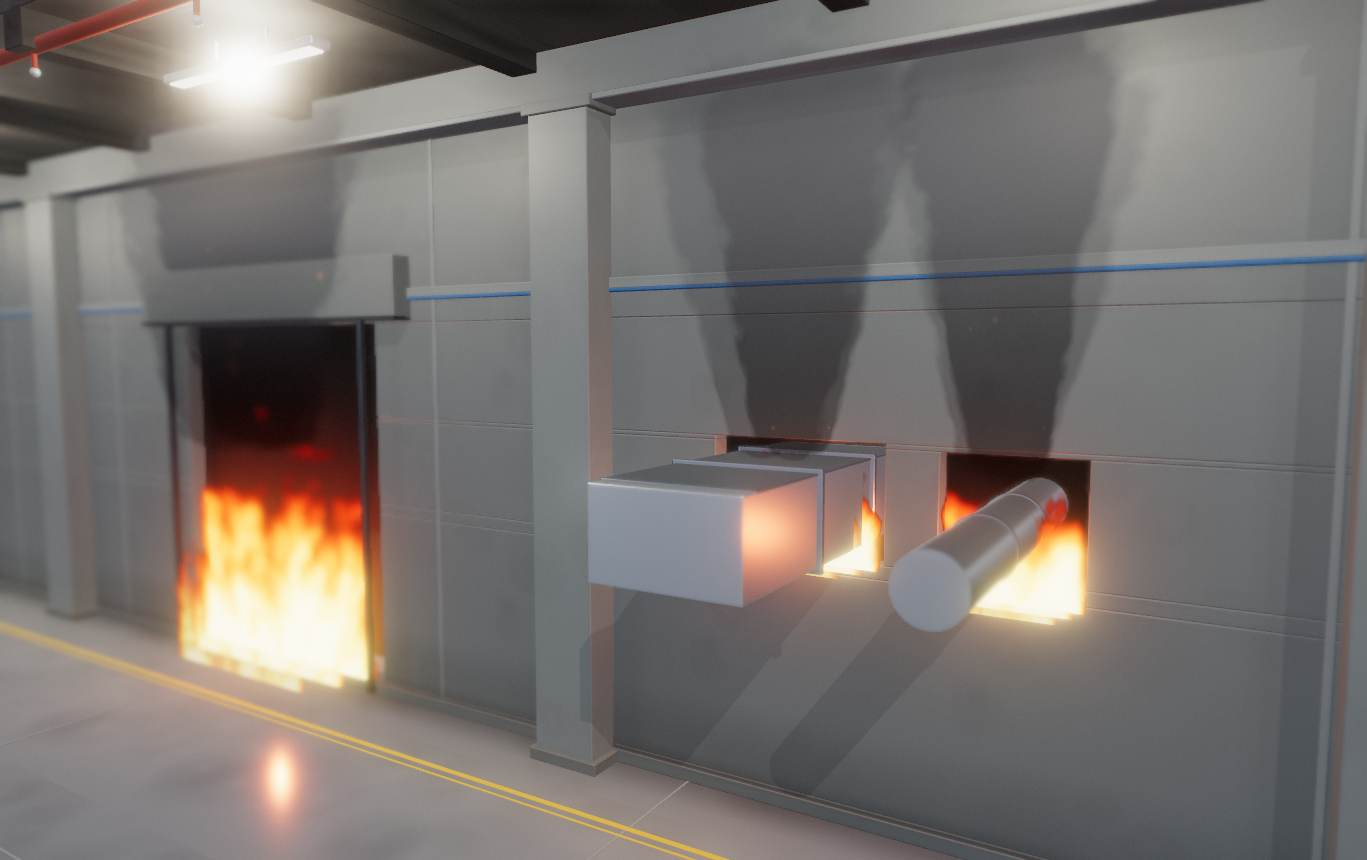
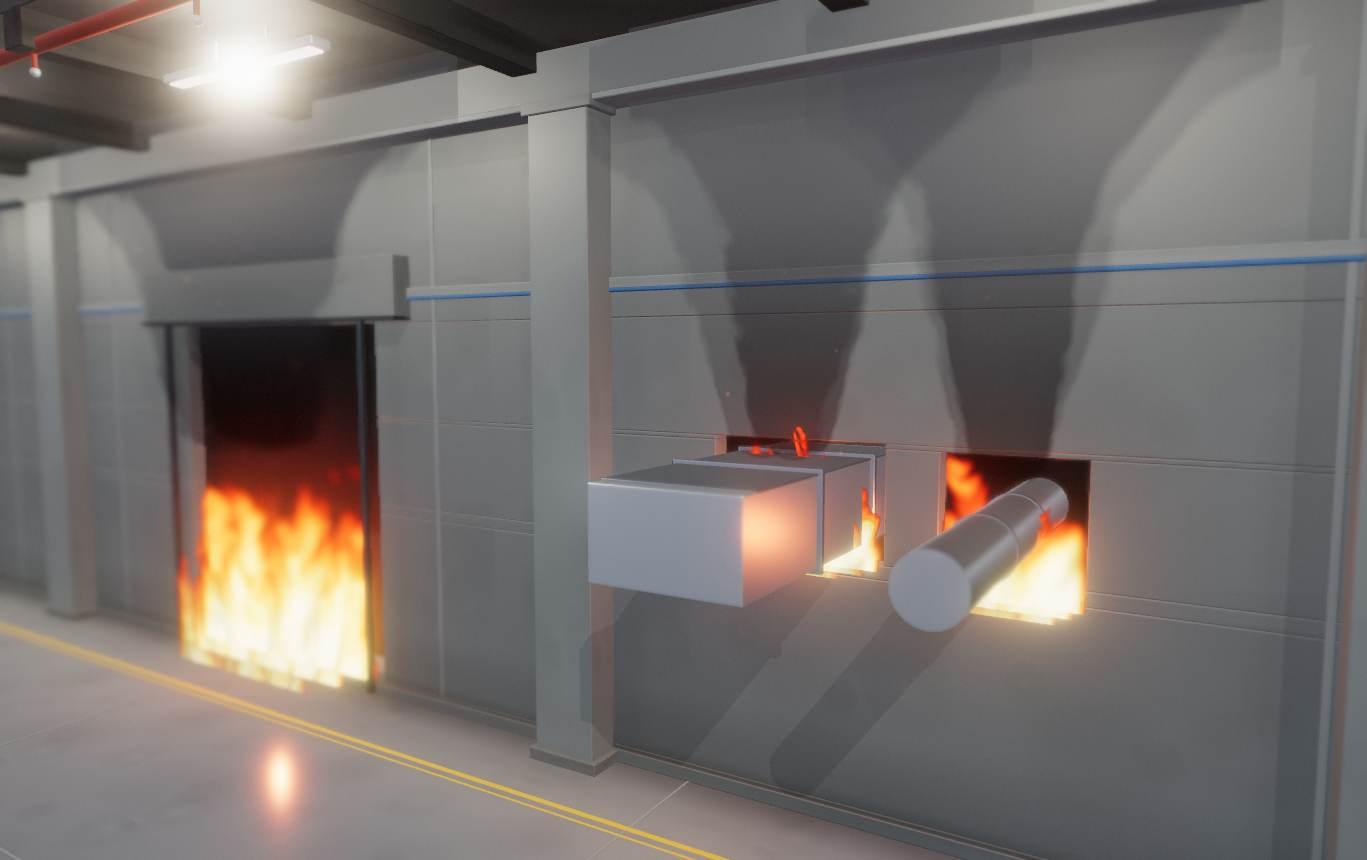
불꽃·연기 품질 — 회전장 워프 · 조각으로 끊어짐 · 연기 천장 확산
경쟁사(마가켐) 히어로 영상을 기준으로 삼아 가장 차이가 큰 불·연기부터.

· 회전장(curl noise) 워프 — 스칼라 노이즈의 기울기를 90° 돌려 발산 0인 회전장을 만들고
  그걸로 좌표를 민다. 노이즈 두 장으로 그냥 미는 도메인 워프는 결이 옆으로 흔들리기만 하고
  혀가 감기지 않는다. 위로 갈수록 크게 휘게 해서 뿌리는 안정적이고 끝만 나풀거리게.
· 위쪽에서 조각으로 끊어짐 — 난류장을 높은 문턱으로 자르면 약한 부분이 먼저 끊겨
  남은 곳이 섬처럼 분리된다. 경계 폭도 같이 좁혀 조각 윤곽을 또렷하게.
· 부력 — 위로 흐르는 속도를 높이에 비례해 키운다. 등속이면 결이 통째로 평행 이동해
  '스크롤되는 커튼'으로 보인다.
· 속이 빈 심부 — 불꽃 안쪽은 아직 안 탄 자리라 바깥보다 어둡다. 없으면 균일하게
  빛나는 주황 젤리가 된다.
· 연기 천장 제트 — 천장에 부딪히면 못 올라가고 옆으로 깔려 층을 이룬다. 예전엔 0.62 부터
  흩어져 사라져서 굴뚝처럼 빠져나갔다. 천장 근처에서 결을 세로로 눌러 가로 층처럼 보이게.

워프용 노이즈는 저주파만 필요하므로 2옥타브(fbm2)로 따로 뽑아 비용을 줄였다.
0초 프레임이 바뀌었으므로 포스터 4장 재생성.

diff --git a/company-site/assets/js/hero3d.js b/company-site/assets/js/hero3d.js
@@ -835,6 +835,8 @@ export async function initHero3D(canvas, host) {
     uniform float uBoost;   // 불꽃이 뻗는 높이
     uniform vec2  uDetail;  // 노이즈 칸 수 (개구부 크기에 맞춰 결 크기를 일정하게)
     uniform vec2  uEdge;    // 좌우 감쇠 폭
+    uniform float uCurl;    // 혀가 휘말리는 정도 (도메인 워프)
+    uniform float uBreak;   // 위쪽에서 조각으로 끊어지는 정도
 
     float hash(vec2 p) {
       p = fract(p * vec2(233.34, 851.73));
@@ -852,14 +854,32 @@ export async function initHero3D(canvas, host) {
       for (int i = 0; i < 4; i++) { v += a * vnoise(p); p = p * 2.04 + vec2(17.3, 9.1); a *= 0.5; }
       return v;
     }
+    // 워프용은 저주파만 있으면 되므로 2옥타브로 싸게 — 불 셰이더는 화면을 크게 덮는다
+    float fbm2(vec2 p) {
+      return 0.62 * vnoise(p) + 0.31 * vnoise(p * 2.04 + vec2(17.3, 9.1));
+    }
 
     void main() {
       vec2 uv = vUv;
       float h = uv.y;                       // 0 = 불의 뿌리, 1 = 꼭대기
 
-      // 위로 갈수록 옆으로 퍼지는 좌표 왜곡 — 불꽃이 원뿔처럼 벌어진다
+      // 위로 갈수록 옆으로 퍼지는 좌표 왜곡 — 불꽃이 원뿔처럼 벌어진다.
+      // ⚠ 위로 흐르는 속도를 높이에 따라 키운다(부력). 등속으로 흘리면 결이 통째로
+      //    평행 이동해서 '스크롤되는 무늬'로 보인다 — 불이 아니라 커튼이 된다.
       vec2 q = vec2((uv.x - 0.5) * uDetail.x / (0.55 + h * 0.95),
-                    h * uDetail.y - uTime * uSpeed);
+                    h * uDetail.y - uTime * uSpeed * (1.0 + h * 0.55));
+
+      // ── 회전장(curl noise) 워프 — 이게 '혀가 말려 올라가는' 형상을 만드는 핵심이다.
+      //    ⚠ 노이즈 두 장으로 그냥 밀면(도메인 워프) 결이 **옆으로 흔들리기만** 한다.
+      //       실제 불꽃은 소용돌이를 타고 감기므로 **회전하는 벡터장**이어야 한다.
+      //       스칼라 노이즈의 기울기를 90° 돌리면 발산이 0인 회전장이 된다.
+      vec2 wp = q * 0.62 + vec2(uSeed * 0.7, uTime * 0.33);
+      const float E = 0.14;
+      float na = fbm2(wp);
+      vec2 grad = vec2(fbm2(wp + vec2(E, 0.0)) - na, fbm2(wp + vec2(0.0, E)) - na) / E;
+      // 위로 갈수록 크게 휘어야 뿌리는 안정적이고 끝만 나풀거린다
+      q += vec2(grad.y, -grad.x) * uCurl * (0.20 + h * 1.5);
+
       float n1 = fbm(q + vec2(uSeed, 0.0));
       float n2 = fbm(q * 2.35 + vec2(uSeed * 1.7, -uTime * uSpeed * 1.8));
       float turb = n1 * 0.74 + n2 * 0.40;
@@ -876,12 +896,25 @@ export async function initHero3D(canvas, host) {
       col = mix(col, vec3(1.00, 0.52, 0.07), smoothstep(0.24, 0.52, f));
       col = mix(col, vec3(1.00, 0.82, 0.32), smoothstep(0.52, 0.80, f));
       col = mix(col, vec3(1.00, 0.91, 0.60), smoothstep(0.90, 1.00, f));
+
+      // ── 속이 빈 심부. 불꽃 안쪽은 연료가 아직 안 탄 자리라 **바깥보다 어둡다**.
+      //    이걸 안 넣으면 균일하게 빛나는 '주황 젤리'가 된다.
+      float core = fbm(q * 1.45 + vec2(11.7, uTime * 0.5));
+      col *= 1.0 - 0.42 * smoothstep(0.42, 0.86, core) * smoothstep(0.30, 0.62, f) * (1.0 - h * 0.55);
+
       // ⚠ 위 색은 눈으로 고른 sRGB 값이다. 이제 HDR 선형 버퍼에 그리므로 선형으로 되돌린다.
       //    그 다음 온도에 따라 1을 훌쩍 넘게 밀어 올린다 — 그래야 심부가 하얗게 타고 블룸이 걸린다.
       //    (이 단계가 없으면 아무리 노랗게 칠해도 '주황색 판'으로만 보인다)
       col = pow(col, vec3(2.2)) * mix(1.35, 4.6, smoothstep(0.10, 0.98, f));
 
-      float a = smoothstep(0.012, 0.19, f) * uAlpha * uOn;
+      // ── 위쪽에서 조각으로 끊어지게.
+      //    실제 불은 끝이 매끄럽게 옅어지며 사라지지 않고 **덩어리가 떨어져 나가** 따로 탄다.
+      //    난류장을 **높은 문턱으로 자르면** 약한 부분이 먼저 끊겨 남은 곳이 섬처럼 분리된다.
+      //    경계 폭까지 같이 좁혀야 조각의 윤곽이 또렷해진다.
+      float bh = clamp(h * uBreak, 0.0, 1.0);
+      float thr  = mix(0.012, 0.20, bh);
+      float band = mix(0.178, 0.05, bh);
+      float a = smoothstep(thr, thr + band, f) * uAlpha * uOn;
       a *= smoothstep(uCut + 0.05, uCut - 0.03, h);   // 셔터 하단 아래로만 남는다
       if (a < 0.004) discard;
       gl_FragColor = vec4(col, a);
@@ -907,6 +940,9 @@ export async function initHero3D(canvas, host) {
           uBoost: { value: cfg.boost * (1 - i * 0.08) },
           uDetail: { value: new THREE.Vector2(w * 0.85, hh * 0.5) },
           uEdge: { value: new THREE.Vector2(0.16, 0.16) },
+          // 앞겹일수록 크게 휘고 잘 끊어진다 — 뒤겹은 화염 덩어리의 몸통이라 안정적이어야 한다
+          uCurl: { value: (cfg.curl === undefined ? 0.85 : cfg.curl) * (1 + i * 0.35) },
+          uBreak: { value: (cfg.brk === undefined ? 1.0 : cfg.brk) * (1 + i * 0.25) },
         },
       });
       const m = new THREE.Mesh(new THREE.PlaneGeometry(w, hh, 1, 1), mat);
@@ -939,6 +975,8 @@ export async function initHero3D(canvas, host) {
     varying vec2 vUv;
     uniform float uTime, uOn, uAlpha, uCut, uSeed, uSpeed, uDensity;
     uniform vec2 uDetail, uEdge;
+    uniform float uCeil;        // 천장에 닿기 시작하는 높이(uv.y)
+    uniform float uCeilSpread;  // 천장에서 옆으로 퍼지는 폭
 
     float hash(vec2 p) {
       p = fract(p * vec2(233.34, 851.73));
@@ -961,10 +999,17 @@ export async function initHero3D(canvas, host) {
       vec2 uv = vUv;
       float h = uv.y;                                  // 0 = 불 바로 위, 1 = 천장 쪽
 
+      // ── 천장 제트(ceiling jet).
+      //    실제 화재 연기는 천장에 부딪히면 더 못 올라가고 **옆으로 깔려 층을 이룬다.**
+      //    이게 없으면 굴뚝처럼 위로만 빠져나가 '연기가 어디로 갔나' 싶은 그림이 된다.
+      float cj = smoothstep(uCeil - 0.18, 1.0, h);
+
       // 위로 갈수록 옆으로 크게 퍼진다(불과 반대로 벌어지는 형상)
       float spread = 0.42 + h * 1.85;
       vec2 q = vec2((uv.x - 0.5) * uDetail.x / spread,
                     h * uDetail.y - uTime * uSpeed);
+      // 천장 근처에서는 결을 세로로 눌러 **가로로 늘어난 층**처럼 보이게 한다
+      q.y = mix(q.y, q.y * 0.32, cj);
       float n1 = fbm(q + vec2(uSeed, 0.0));
       float n2 = fbm(q * 2.15 + vec2(uSeed * 2.3, -uTime * uSpeed * 0.65));
       float d = n1 * 0.78 + n2 * 0.42;
@@ -973,13 +1018,15 @@ export async function initHero3D(canvas, host) {
       // (가로 전체를 채우면 검은 사각 덩어리로 보인다)
       float cx = 0.5 + sin(uTime * 0.33 + uSeed) * 0.06 * h
                      + sin(uTime * 0.19 + uSeed * 2.1) * 0.04 * h;
-      float hw = uEdge.x + h * uEdge.y;   // half 는 GLSL 예약어라 쓸 수 없다
+      // half 는 GLSL 예약어라 쓸 수 없다. 천장에 닿으면 폭이 급격히 벌어진다.
+      float hw = uEdge.x + h * uEdge.y + cj * uCeilSpread;
       float dx = abs(uv.x - cx) / max(0.02, hw);
       float plume = 1.0 - smoothstep(0.12, 1.0, dx);
-      // 올라오면서 짙어졌다가 천장으로 갈수록 흩어진다
-      float rise = smoothstep(0.0, 0.07, h) * (1.0 - smoothstep(0.62, 1.0, h));
+      // 올라오면서 짙어진다. ⚠ 예전엔 0.62 부터 흩어져 없어졌는데, 그러면 천장에 쌓이질 않는다.
+      //    천장 바로 아래까지 살려두고 맨 끝(슬래브에 묻히는 부분)만 잘라낸다.
+      float rise = smoothstep(0.0, 0.07, h) * (1.0 - smoothstep(0.88, 1.03, h));
 
-      float m = d * uDensity * plume * rise;
+      float m = d * uDensity * plume * rise * mix(1.0, 1.32, cj);
       float a = smoothstep(0.3, 0.66, m) * uAlpha * uOn;
       a *= smoothstep(uCut + 0.06, uCut - 0.03, h);
       if (a < 0.004) discard;
@@ -1007,6 +1054,8 @@ export async function initHero3D(canvas, host) {
           uDensity: { value: cfg.density },
           uDetail: { value: new THREE.Vector2(w * 1.15, hh * 0.78) },
           uEdge: { value: new THREE.Vector2(cfg.narrow, cfg.flare) },
+          uCeil: { value: cfg.ceil === undefined ? 0.70 : cfg.ceil },
+          uCeilSpread: { value: cfg.ceilSpread === undefined ? 0.55 : cfg.ceilSpread },
         },
       });
       const m = new THREE.Mesh(new THREE.PlaneGeometry(w, hh, 1, 1), mat);

diff --git a/company-site/index.html b/company-site/index.html
@@ -21,15 +21,15 @@
 
     <link rel="icon" type="image/png" href="assets/images/doenc_mark.png">
     <!-- 히어로 첫 화면 — 화면 비율 단계별로 한 장만 받는다 (경계는 style.css / hero3d.js resize() 와 동일) -->
-    <link rel="preload" as="image" href="assets/images/hero-poster-w.jpg?v=20260805a" media="(min-aspect-ratio: 8/5)" fetchpriority="high">
-    <link rel="preload" as="image" href="assets/images/hero-poster-m.jpg?v=20260805a" media="(min-aspect-ratio: 6/5) and (max-aspect-ratio: 8/5)" fetchpriority="high">
-    <link rel="preload" as="image" href="assets/images/hero-poster-n.jpg?v=20260805a" media="(min-aspect-ratio: 4/5) and (max-aspect-ratio: 6/5)" fetchpriority="high">
-    <link rel="preload" as="image" href="assets/images/hero-poster-p.jpg?v=20260805a" media="(max-aspect-ratio: 4/5)" fetchpriority="high">
+    <link rel="preload" as="image" href="assets/images/hero-poster-w.jpg?v=20260805b" media="(min-aspect-ratio: 8/5)" fetchpriority="high">
+    <link rel="preload" as="image" href="assets/images/hero-poster-m.jpg?v=20260805b" media="(min-aspect-ratio: 6/5) and (max-aspect-ratio: 8/5)" fetchpriority="high">
+    <link rel="preload" as="image" href="assets/images/hero-poster-n.jpg?v=20260805b" media="(min-aspect-ratio: 4/5) and (max-aspect-ratio: 6/5)" fetchpriority="high">
+    <link rel="preload" as="image" href="assets/images/hero-poster-p.jpg?v=20260805b" media="(max-aspect-ratio: 4/5)" fetchpriority="high">
 
     <!-- 3D 모듈을 미리 받아둔다. 없으면 main.js → hero3d.js → three.module → three.core 로
          **네 번 순차 왕복**하느라 750KB 를 다 받을 때까지 포스터가 계속 떠 있는다.
          ⚠ href 는 실제 import 주소와 **글자 그대로 같아야** 캐시가 재사용된다(쿼리 포함). -->
-    <link rel="modulepreload" href="assets/js/hero3d.js?v=20260805a">
+    <link rel="modulepreload" href="assets/js/hero3d.js?v=20260805b">
     <link rel="modulepreload" href="assets/js/vendor/three.module.min.js">
     <link rel="modulepreload" href="assets/js/vendor/three.core.min.js">
 
@@ -76,7 +76,7 @@
     <link rel="stylesheet" href="https://cdn.jsdelivr.net/gh/orioncactus/pretendard@v1.3.9/dist/web/variable/pretendardvariable-dynamic-subset.min.css"
           media="print" onload="this.media='all'">
     <noscript><link rel="stylesheet" href="https://cdn.jsdelivr.net/gh/orioncactus/pretendard@v1.3.9/dist/web/variable/pretendardvariable-dynamic-subset.min.css"></noscript>
-    <link rel="stylesheet" href="assets/css/style.css?v=20260805a">
+    <link rel="stylesheet" href="assets/css/style.css?v=20260805b">
     <noscript><style>.reveal{opacity:1!important;transform:none!important}</style></noscript>
 </head>
 <body id="top">
@@ -178,7 +178,7 @@
         <section class="hero" id="home">
             <!-- ▼ 히어로 미디어 슬롯
                  실사 영상/사진을 받으면 아래 주석 한 줄만 살리면 도면 그래픽이 자동 교체됩니다.
-                 <video autoplay muted loop playsinline poster="assets/images/hero-poster-w.jpg?v=20260805a">
+                 <video autoplay muted loop playsinline poster="assets/images/hero-poster-w.jpg?v=20260805b">
                      <source src="assets/images/hero.mp4" type="video/mp4"></video>
                  또는  <img src="assets/images/hero.jpg" alt="">                        -->
             <div class="hero-media" id="heroMedia" aria-hidden="true">
@@ -917,14 +917,14 @@
         <a class="to-top" href="#top" aria-label="맨 위로">↑</a>
     </footer>
 
-    <script src="assets/js/main.js?v=20260805a"></script>
+    <script src="assets/js/main.js?v=20260805b"></script>
     <script type="module">
       // 히어로 3D는 첫 화면이 그려진 뒤에 불러온다 (본문 표시를 늦추지 않도록)
       var canvas = document.getElementById("hero3d");
       var host = document.getElementById("heroMedia");
       var gl = canvas && canvas.getContext && (canvas.getContext("webgl2") || canvas.getContext("webgl"));
       if (gl) {
-        import("./assets/js/hero3d.js?v=20260805a")
+        import("./assets/js/hero3d.js?v=20260805b")
           .then(function (m) { return m.initHero3D(canvas, host); })
           // 1회 재생이라 replay()로 다시 볼 수 있게 API를 전역에 둔다.
           // ⚠ window.hero3d 는 <canvas id="hero3d"> 와 이름이 겹치므로 heroFilm 을 정식 이름으로 쓴다.

diff --git a/company-site/assets/css/style.css b/company-site/assets/css/style.css
@@ -258,11 +258,11 @@ svg { display: block; width: 100%; height: auto; }
 .hero-media {
     position: absolute; inset: 0; overflow: hidden;
     background: #83786f center center / auto 100% no-repeat;
-    background-image: url("../images/hero-poster-p.jpg?v=20260805a");           /*        a < 0.8 */
+    background-image: url("../images/hero-poster-p.jpg?v=20260805b");           /*        a < 0.8 */
 }
-@media (min-aspect-ratio: 4/5) { .hero-media { background-image: url("../images/hero-poster-n.jpg?v=20260805a"); } }  /* 0.8 <= a < 1.2 */
-@media (min-aspect-ratio: 6/5) { .hero-media { background-image: url("../images/hero-poster-m.jpg?v=20260805a"); } }  /* 1.2 <= a < 1.6 */
-@media (min-aspect-ratio: 8/5) { .hero-media { background-image: url("../images/hero-poster-w.jpg?v=20260805a"); } }  /* 1.6 <= a       */
+@media (min-aspect-ratio: 4/5) { .hero-media { background-image: url("../images/hero-poster-n.jpg?v=20260805b"); } }  /* 0.8 <= a < 1.2 */
+@media (min-aspect-ratio: 6/5) { .hero-media { background-image: url("../images/hero-poster-m.jpg?v=20260805b"); } }  /* 1.2 <= a < 1.6 */
+@media (min-aspect-ratio: 8/5) { .hero-media { background-image: url("../images/hero-poster-w.jpg?v=20260805b"); } }  /* 1.6 <= a       */
 
 /* 사실적 3D 캔버스 — 준비되면 폴백 위로 나타난다.
    포스터가 곧 같은 프레임이므로 길게 겹칠 이유가 없다 — 짧게 넘겨야 갈아타는 게 안 보인다 */

diff --git a/company-site/archive.html b/company-site/archive.html
@@ -37,7 +37,7 @@
     <link rel="stylesheet" href="https://cdn.jsdelivr.net/gh/orioncactus/pretendard@v1.3.9/dist/web/variable/pretendardvariable-dynamic-subset.min.css"
           media="print" onload="this.media='all'">
     <noscript><link rel="stylesheet" href="https://cdn.jsdelivr.net/gh/orioncactus/pretendard@v1.3.9/dist/web/variable/pretendardvariable-dynamic-subset.min.css"></noscript>
-    <link rel="stylesheet" href="assets/css/style.css?v=20260805a">
+    <link rel="stylesheet" href="assets/css/style.css?v=20260805b">
     <noscript><style>.reveal{opacity:1!important;transform:none!important}</style></noscript>
 </head>
 <body id="top">
@@ -198,8 +198,8 @@
         </div>
     </div>
 
-    <script src="assets/js/main.js?v=20260805a"></script>
-    <script src="assets/js/pages.js?v=20260805a"></script>
+    <script src="assets/js/main.js?v=20260805b"></script>
+    <script src="assets/js/pages.js?v=20260805b"></script>
     <script>
       DOENC.initArchive();
     </script>

diff --git a/company-site/support.html b/company-site/support.html
@@ -37,7 +37,7 @@
     <link rel="stylesheet" href="https://cdn.jsdelivr.net/gh/orioncactus/pretendard@v1.3.9/dist/web/variable/pretendardvariable-dynamic-subset.min.css"
           media="print" onload="this.media='all'">
     <noscript><link rel="stylesheet" href="https://cdn.jsdelivr.net/gh/orioncactus/pretendard@v1.3.9/dist/web/variable/pretendardvariable-dynamic-subset.min.css"></noscript>
-    <link rel="stylesheet" href="assets/css/style.css?v=20260805a">
+    <link rel="stylesheet" href="assets/css/style.css?v=20260805b">
     <noscript><style>.reveal{opacity:1!important;transform:none!important}</style></noscript>
 </head>
 <body id="top">
@@ -198,8 +198,8 @@
         </div>
     </div>
 
-    <script src="assets/js/main.js?v=20260805a"></script>
-    <script src="assets/js/pages.js?v=20260805a"></script>
+    <script src="assets/js/main.js?v=20260805b"></script>
+    <script src="assets/js/pages.js?v=20260805b"></script>
     <script>
       DOENC.initSupport();
     </script>

diff --git a/company-site/about.html b/company-site/about.html
@@ -37,7 +37,7 @@
     <link rel="stylesheet" href="https://cdn.jsdelivr.net/gh/orioncactus/pretendard@v1.3.9/dist/web/variable/pretendardvariable-dynamic-subset.min.css"
           media="print" onload="this.media='all'">
     <noscript><link rel="stylesheet" href="https://cdn.jsdelivr.net/gh/orioncactus/pretendard@v1.3.9/dist/web/variable/pretendardvariable-dynamic-subset.min.css"></noscript>
-    <link rel="stylesheet" href="assets/css/style.css?v=20260805a">
+    <link rel="stylesheet" href="assets/css/style.css?v=20260805b">
     <noscript><style>.reveal{opacity:1!important;transform:none!important}</style></noscript>
 </head>
 <body id="top">
@@ -545,7 +545,7 @@
         </div>
     </div>
 
-    <script src="assets/js/main.js?v=20260805a"></script>
-    <script src="assets/js/pages.js?v=20260805a"></script>
+    <script src="assets/js/main.js?v=20260805b"></script>
+    <script src="assets/js/pages.js?v=20260805b"></script>
 </body>
 </html>
